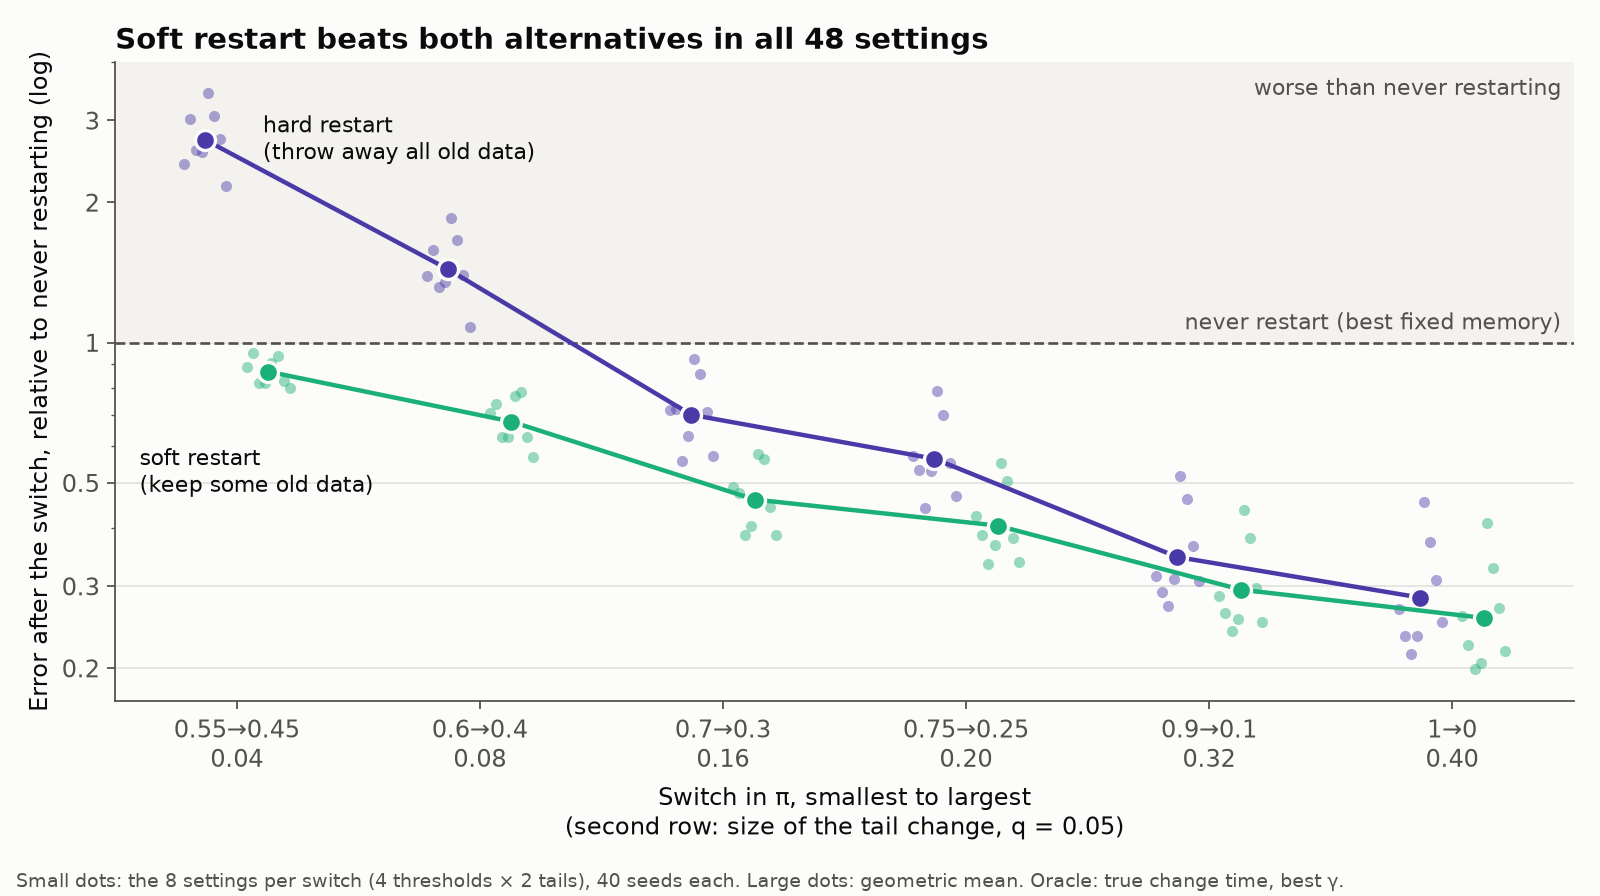
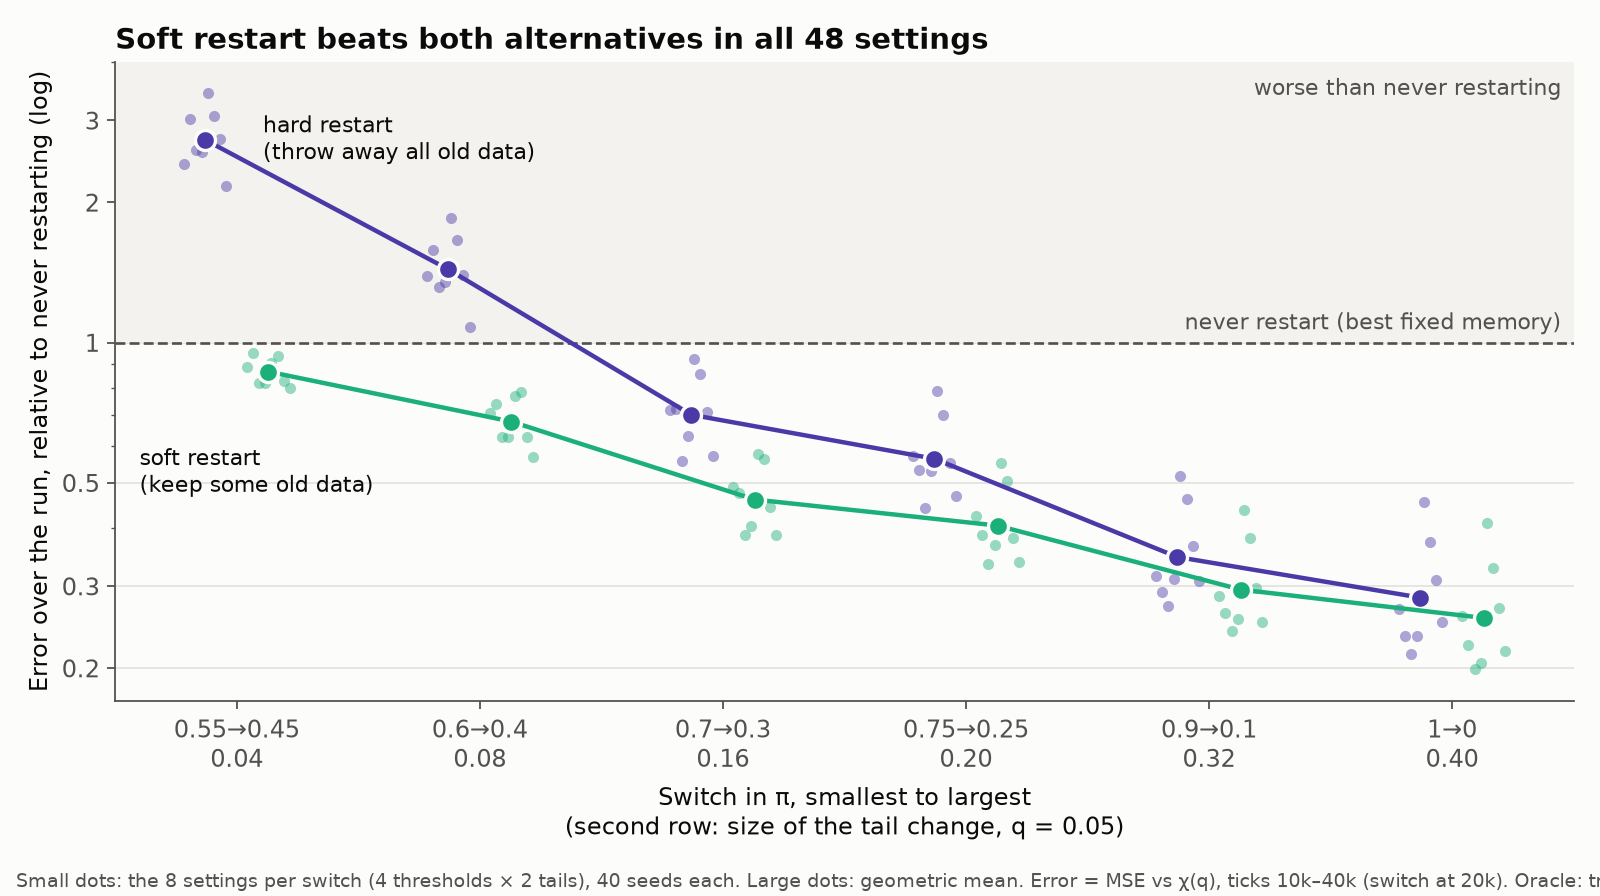
tail_dependence: label restart figures as total-run MSE; add single fixed-gamma result
Claude-Session: https://claude.ai/code/session_01GCr3WNRDgnBHgxDshYoQ5y

Changed region(s): [[0.0, 0.0625, 0.0312, 0.7812], [0.6562, 0.9688, 1.0, 1.0]]

diff --git a/experiments/plot_tail_restart.py b/experiments/plot_tail_restart.py
@@ -46,9 +46,9 @@ ax.set_xticks(list(x))
 ax.set_xticklabels([f"{float(p):.2g}→{1 - float(p):.2g}\n{d:.2f}" for p, d in zip(sw, dchi)])
 ax.set_xlim(-0.5, len(sw) - 0.5)
 ax.set_xlabel("Switch in π, smallest to largest\n(second row: size of the tail change, q = 0.05)")
-ax.set_ylabel("Error after the switch, relative to never restarting (log)")
+ax.set_ylabel("Error over the run, relative to never restarting (log)")
 ax.set_title("Soft restart beats both alternatives in all 48 settings", loc="left", fontweight="bold", color=INK)
 fig.text(0.01, 0.01, "Small dots: the 8 settings per switch (4 thresholds × 2 tails), 40 seeds each. Large dots: geometric mean. "
-         "Oracle: true change time, best γ.", fontsize=8.5, color=INK2)
+         "Error = MSE vs χ(q), ticks 10k–40k (switch at 20k). Oracle: true change time, best γ.", fontsize=8.5, color=INK2)
 fig.tight_layout(rect=(0, 0.03, 1, 1))
 fig.savefig("../notes/studies/figures/tail_restart.png", dpi=160, facecolor=BG)

diff --git a/experiments/plot_tail_mixture.py b/experiments/plot_tail_mixture.py
@@ -64,7 +64,7 @@ b.set_xticks(dpi)
 b.set_xticklabels([f"{float(p):.2g}→{1 - float(p):.2g}\n{d:.2f}" for p, d in zip(sw, dchi05)], fontsize=10)
 b.set_xlim(-0.4, len(sw) - 0.6); b.set_ylim(0, 3)
 b.set_xlabel("Switch in π, smallest to largest\n(second row: size of the tail change, q = 0.05)")
-b.set_ylabel("Error after the switch\n(relative to never restarting)")
+b.set_ylabel("Error over the run\n(relative to never restarting)")
 b.set_title("Bigger switches make restarting worthwhile", loc="left", fontweight="bold", color=INK)
 
 fig.tight_layout()

diff --git a/experiments/plot_tail_soft.py b/experiments/plot_tail_soft.py
@@ -68,7 +68,7 @@ a.text(gx[0] + 0.01, gh[0], "throw away all old data", color=INK, fontsize=10, v
 a.text(gx[-1], gs[-1] - 0.09, "keep some old data", color=INK, fontsize=10, ha="right", va="top")
 a.set_ylim(0, 3); a.set_xlim(0, 0.5)
 a.set_xlabel("Size of the change in tail dependence")
-a.set_ylabel("Error after the change\n(relative to never restarting)")
+a.set_ylabel("Error over the run\n(relative to never restarting)")
 a.set_title("Keeping some old data always wins", loc="left", fontweight="bold", color=INK)
 
 lim = (0.1, 400)

diff --git a/notes/studies/tail_dependence.md b/notes/studies/tail_dependence.md
@@ -254,7 +254,7 @@ restart went from losing (Gauss → $t$, $\Delta\chi$ 0.07–0.17) to winning.
 
 *Figure (`experiments/plot_tail_mixture.py`). Left: along the equal-component path, $\chi_L(.05)$ and
 $\chi_U(.05)$ are linear in $\pi$ while $\rho_S$ stays at 0.58 (lines exact, dots 4M-draw Monte Carlo).
-Right: post-change MSE relative to the best fixed memory for each switch $\pi_0\to1-\pi_0$, geometric
+Right: total MSE (ticks 10k–40k) relative to the best fixed memory for each switch $\pi_0\to1-\pi_0$, geometric
 mean over the 8 $(q,\text{tail})$ cells.*
 
 ## Step 3b — soft oracle restart: how much of the old regime to keep
@@ -305,7 +305,7 @@ Ranges over tail × $q$; $t$ is the paired-seed $t$-statistic of best-soft vs be
 
 ![Restart comparison](figures/tail_restart.png)
 
-*Figure (`experiments/plot_tail_restart.py`). Post-change MSE relative to the best fixed memory for each
+*Figure (`experiments/plot_tail_restart.py`). Total MSE (ticks 10k–40k) relative to the best fixed memory for each
 switch; small dots are the 8 $(q,\text{tail})$ cells, large dots their geometric mean.*
 
 ### Result 2 — the right quantity is retained *events*, and it follows a shrinkage law
@@ -340,12 +340,27 @@ refined grid on fresh seeds is the check:
 
 ![Step 3b](figures/tail_soft.png)
 
-*Figure (`experiments/plot_tail_soft.py`). Left: post-change MSE relative to the best fixed memory,
+*Figure (`experiments/plot_tail_soft.py`). Left: total MSE (ticks 10k–40k, switch at 20k) relative to the best fixed memory,
 geometric mean over the 8 (q, tail) cells at each change size; x is the mean $|\Delta\chi|$. Right:
 empirical $n_0^*$ against $v_\text{post}/(\Delta\chi^2+\operatorname{Var}\hat\chi_0)$, all 48 cells.*
 
 - So the soft restart is Bayesian shrinkage: after a break, the old regime is worth about
   $v/\Delta\chi^2$ events of prior, never more, however much of it was observed.
+
+### Result 3 — one fixed $\gamma$ already captures most of the gain (no knowledge of $\Delta\chi$)
+
+Same runs, but one $\gamma$ for every cell (memory still the per-cell best, change time still known).
+Total MSE ÷ best fixed memory over the 48 cells:
+
+| $\gamma$ | 0 (hard) | 0.01 | 0.05 | 0.1 | **0.25** | 0.5 | 1 (no restart) |
+|---|---|---|---|---|---|---|---|
+| worst cell | 3.43 | 2.16 | 1.36 | 1.10 | **0.95** | 0.96 | 1.00 |
+| geometric mean | 0.73 | 0.53 | 0.55 | 0.60 | **0.71** | 0.84 | 1.00 |
+| cells beating fixed | 32 | 38 | 44 | 45 | **48** | 48 | — |
+
+$\gamma=0.25$ beats the best fixed memory in every cell without knowing the size of the change; the
+per-cell oracle $\gamma$ improves the mean further (0.45). Small $\gamma$ wins big changes but loses the
+small ones; a moderate $\gamma$ is the safe default. Still needs the change time.
 
 ### Caveats
 
